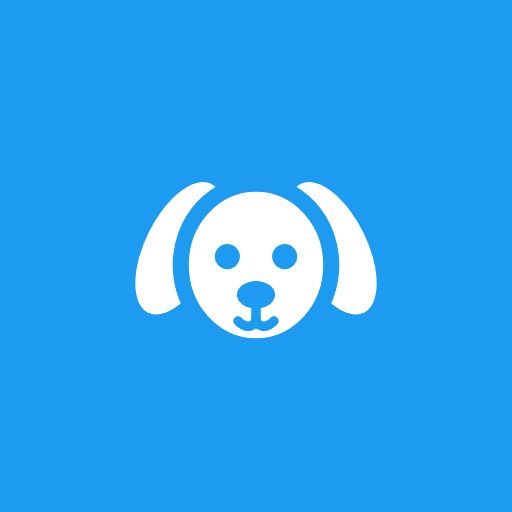
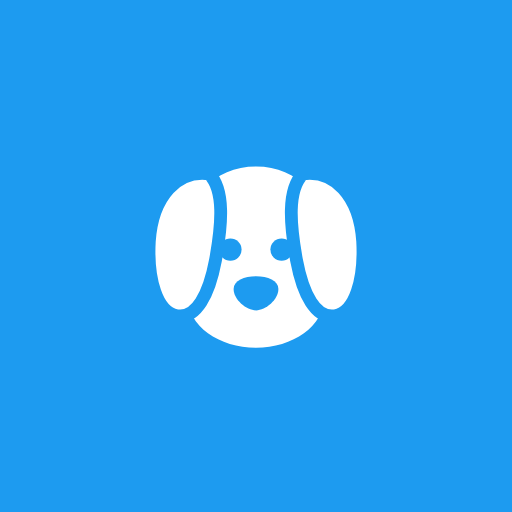
개위터 강아지 로고·홈 화면 아이콘 리디자인
Claude-Session: https://claude.ai/code/session_0159na4A1njcH4woaev5nifP

Changed region(s): [[0.25, 0.3125, 0.75, 0.6875], [0.6562, 0.375, 0.6875, 0.4062], [0.3125, 0.375, 0.3438, 0.4062]]

diff --git a/gaewitter/index.html b/gaewitter/index.html
@@ -763,7 +763,7 @@ const IC={
 const BADGE=(()=>{let d='';const n=8,R=9.1,rr=3.9;for(let i=0;i<=n;i++){const a=(i/n)*Math.PI*2-Math.PI/2;const x=(12+R*Math.cos(a)).toFixed(2),y=(12+R*Math.sin(a)).toFixed(2);d+=i?`A${rr} ${rr} 0 0 1 ${x} ${y}`:`M${x} ${y}`}return `<svg class="vb" viewBox="0 0 24 24" aria-label="인증된 계정"><path d="${d}Z" fill="#1d9bf0"/><path d="m8 12.2 2.7 2.7 5.3-5.6" fill="none" stroke="#fff" stroke-width="2" stroke-linecap="round" stroke-linejoin="round"/></svg>`})();
 
 /* ================= logo & generated pictures ================= */
-function dogMask(id){return `<mask id="${id}" maskUnits="userSpaceOnUse" x="0" y="0" width="24" height="24"><g fill="#fff"><ellipse cx="5.6" cy="11.6" rx="2.9" ry="6" transform="rotate(26 5.6 11.6)"/><ellipse cx="18.4" cy="11.6" rx="2.9" ry="6" transform="rotate(-26 18.4 11.6)"/></g><ellipse cx="12" cy="13" rx="6.3" ry="6.8" fill="#fff" stroke="#000" stroke-width="1.35"/><circle cx="9.6" cy="12.3" r="1.05" fill="#000"/><circle cx="14.4" cy="12.3" r="1.05" fill="#000"/><ellipse cx="12" cy="15.5" rx="1.6" ry="1.15" fill="#000"/><path d="M12 16.5v1M10.5 17.7c.7.7 1.5.5 1.5-.3 0 .8.8 1 1.5.3" stroke="#000" stroke-width=".8" fill="none" stroke-linecap="round"/></mask>`}
+function dogMask(id){return `<mask id="${id}" maskUnits="userSpaceOnUse" x="0" y="0" width="24" height="24"><path fill="#fff" d="M12 3.6c4 0 6.6 3 6.6 6.8 0 1.8-.4 3.2-.2 5 .3 3-2.8 5.2-6.4 5.2s-6.7-2.2-6.4-5.2c.2-1.8-.2-3.2-.2-5 0-3.8 2.6-6.8 6.6-6.8Z"/><g fill="#fff" stroke="#000" stroke-width="1.2" stroke-linejoin="round"><path d="M7.6 4.3C4.7 3.9 2.3 6.3 2 10.6c-.2 3.6.7 6.7 2.6 7 1.8.3 3-2 3.6-5.2.6-3.3.9-6.6-.6-8.1Z"/><path d="M16.4 4.3c2.9-.4 5.3 2 5.6 6.3.2 3.6-.7 6.7-2.6 7-1.8.3-3-2-3.6-5.2-.6-3.3-.9-6.6.6-8.1Z"/></g><g fill="#000"><circle cx="9.6" cy="11.4" r="1.05"/><circle cx="14.4" cy="11.4" r="1.05"/><path d="M9.9 15.1c0-.8 1-1.2 2.1-1.2s2.1.4 2.1 1.2c0 1-1.2 2-2.1 2s-2.1-1-2.1-2Z"/></g></mask>`}
 let LGID=0;
 function logo(){const id='lg'+(++LGID);return `<svg class="logo" viewBox="0 0 24 24" role="img" aria-label="개위터"><defs>${dogMask(id)}</defs><rect width="24" height="24" fill="currentColor" mask="url(#${id})"/></svg>`}
 
